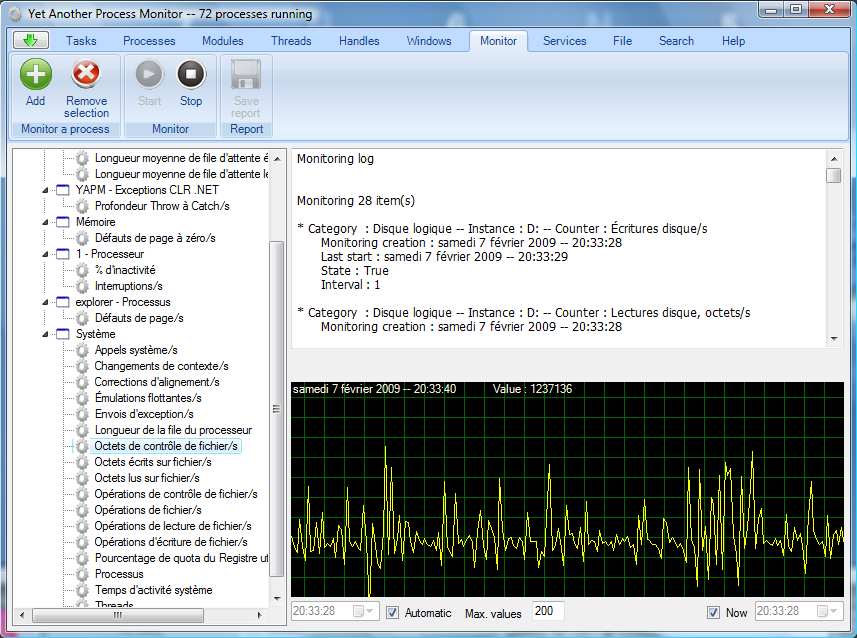
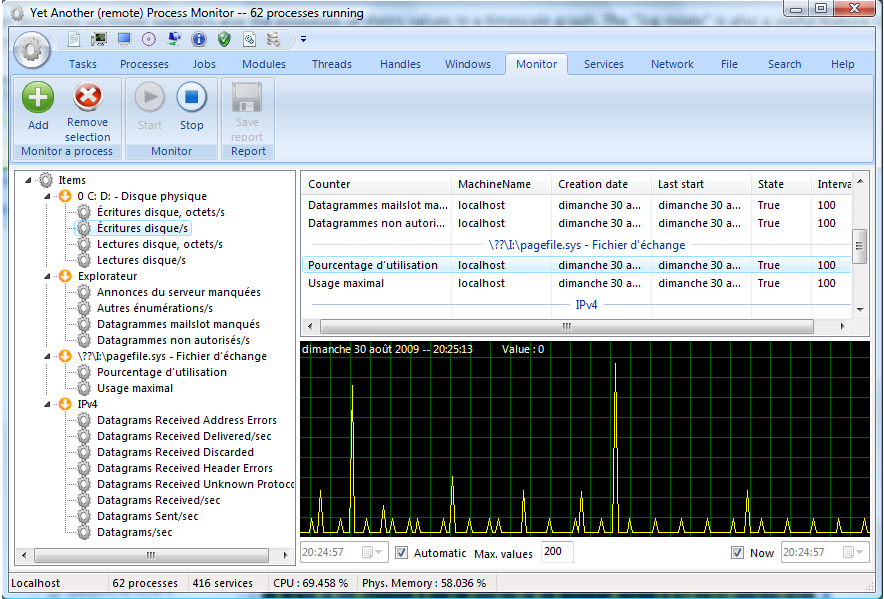
Updated Website for v2.1.0 Typo changes

diff --git a/Website/features.html b/Website/features.html
@@ -21,17 +21,18 @@ font-size:13pt; background-color:white;"> </span></font><span style="background-
     <DIV>
         <H2>&nbsp;</H2>
         <H2>List of main features</H2>
-        <p>The main purpose of YAPM is to display all informations availables about processes/services of a local/remote system&nbsp;and all related objects (threads, modules...), and to update all these informations&nbsp;in real time. The application has three&nbsp;principal forms :</p>
+        <p>The main purpose of YAPM is to display all informations availables about processes running on&nbsp;a local or remote system, and to update all these informations&nbsp;in real time. The application has four&nbsp;principal windows&nbsp;:</p>
         <ul>
-            <LI>the main form : displays the list of tasks/processes/services/TCP-UDP connections in real time. The other lists (modules, handles, threads...) can display objects of multiple processes, but are&nbsp;not automatically refreshed</LI>
-            <LI>the process detail form : displays in real time all informations about a specific process. Double-click on a process to open this form</LI>
-            <LI>the service&nbsp;detail form : displays in real time all informations about a specific service. Double-click on a service&nbsp;to open this form</LI>
+            <LI>the main window&nbsp;: displays the list of opened&nbsp;tasks/processes/jobs/services/TCP-UDP-connections in real time. The other tabs&nbsp;(modules, handles, threads...) can display objects owned&nbsp;by multiple processes, but are&nbsp;not automatically refreshed</LI>
+            <LI>the process detail window&nbsp;: displays in real time all informations about a specific process. Double-click on a process to open this window</LI>
+            <LI>the service&nbsp;detail window&nbsp;: displays in real time all informations about a specific service. Double-click on a service&nbsp;to open this window</LI>
+            <LI>the job&nbsp;detail window&nbsp;: displays in real time all informations about a specific job. Double-click on a job&nbsp;to open this window</LI>
         </ul>
         <p>For all lists, it is possible to choose the columns to display.</p>
         <p>Lots of informations and functions&nbsp;are available, here are the main :</p>
         <h3>Processes</h3>
-        <p>YAPM is able to kill (simple or kill process tree), stop, resume, set priority, set affinity of processes (multiple selection). You can also choose the informations&nbsp;you want to display (~45 available).</p>
-        <p align="center"><img src="Images/processes.png" width="881" height="693" border="0" alt="List of processes"></p>
+        <p>YAPM is able to kill (simple kill,&nbsp;kill process tree, kill by 5 different methods), stop, resume, set priority, set affinity of processes (multiple selection), add processes to job, create dump file, reduce WS size...etc.&nbsp;. You can also choose the informations&nbsp;you want to display (~50 available). The processes are highlighted depending of their type (system processes, processes in job...). Colors are of course configurable.</p>
+        <p align="center"><img src="Images/processes.png" width="881" height="697" border="0" alt="List of processes"></p>
         <h3>Statistics &amp; performance graphs</h3>
         <p>YAPM can display a lot of statistics about your processes. YAPM save a complete history of all statistics.</p>
         <p align="center"><img src="Images/statistics.png" width="671" height="720" border="0" alt="Some of the available statistics"></p>
@@ -39,42 +40,34 @@ font-size:13pt; background-color:white;"> </span></font><span style="background-
         <p>YAPM is able to manage process privileges (you can enable/disable/remove them).</p>
         <p align="center"><img src="Images/privileges.png" width="811" height="327" border="0" alt="Privileges"></p>
         <h3>Memory</h3>
-        <p>YAPM can display the memory regions in the virtual memory space of a process. You also can view it in&nbsp;a build-in hexadecimal editor.</p>
+        <p>YAPM can display/release/change protection/decommit&nbsp;the memory regions in the virtual memory space of a process. You also can view it in&nbsp;a build-in hexadecimal editor.</p>
         <p align="center"><img src="Images/memory.png" width="647" height="890" border="0" alt="Memory management"></p>
-        <h3>Modules</h3>
-        <p>YAPM can unload modules and show complete informations about them. You can of course save a detailed report.</p>
-        <p align="center"><img src="Images/modules.png" width="879" height="632" border="0" alt="Module list"></p>
-        <h3>Threads</h3>
-        <p>YAPM can kill, stop, resume and set affinity of threads.</p>
-        <p align="center"><img src="Images/threads.png" width="859" height="639" border="0" alt="Thread list"></p>
-        <h3>Handles</h3>
-        <p>YAPM is able to list all&nbsp;opened handles (even of system process if your have administrator rights) and show useful informations.</p>
-        <p align="center"><img src="Images/handles.png" width="881" height="631" border="0" alt="Handle list"></p>
-        <h3>Windows</h3>
-        <p>YAPM can close, set position, show, hide, flash, change caption/opacity, set as active/foreground window...etc. each of opened Windows. You are also able to find the owner process of a specific window by dragging your mouse over the screen.</p>
-        <p align="center"><img src="Images/windows.png" width="883" height="629" border="0" alt="Windows list"></p>
         <h3>Services</h3>
         <p>YAPM can shutdown, stop, resume, pause and change start type of all services.</p>
-        <p align="center"><img src="Images/services.png" width="880" height="631" border="0" alt="List of services"></p>
+        <p align="center"><img src="Images/services.png" width="881" height="600" border="0" alt="List of services"></p>
         <h3>Monitoring</h3>
         <p>YAPM allows to see&nbsp;all available Windows perfmon' counters and the&nbsp;evolution of theirs values in a timescale graph. The &quot;log mode&quot; is also a useful feature to know what is done by a process in real time.</p>
-        <p align="center"><img src="Images/monitoring.png" width="857" height="638" border="0" alt="Monitoring"></p>
+        <p align="center"><img src="Images/monitoring.png" width="884" height="599" border="0" alt="Monitoring"></p>
         <h3>Files</h3>
-        <p>YAPM can also manage your files. You can change dates/attributes, find string in file, encrypt, move/copy, delete and even shredd files.</p>
-        <p align="center"><img src="Images/files.png" width="858" height="637" border="0" alt="File management"></p>
+        <p>YAPM can also manage your files. You can change dates/attributes, find string in file, encrypt, move/copy, delete...etc.</p>
+        <p align="center"><img src="Images/files.png" width="880" height="600" border="0" alt="File management"></p>
         <h3>Search</h3>
-        <p>YAPM allows you to search for a specified string into opened processes, modules, handles and windows.</p>
-        <p align="center"><img src="Images/search.png" width="857" height="638" border="0" alt="Search"></p>
+        <p>YAPM allows you to search for a specified string into opened processes, modules, handles, windows...etc.</p>
+        <p align="center"><img src="Images/search.png" width="881" height="588" border="0" alt="Search"></p>
+        <h3 align="left">Job management</h3>
+        <p align="left">YAPM offers the possibility to add any process to new or existing jobs. YAPM also offers the possibility for the user to configure limits to the processes in jobs</p>
+        <p align="center"><img src="Images/jobs.png" width="716" height="708" border="0"></p>
+        <p align="center"><img src="Images/joblimits.png" width="497" height="462" border="0"></p>
         <h3 align="left">Dependency viewer</h3>
-        <p align="left">YAPM offers the possibility to view dependencies of an executable/dll/...</p>
+        <p align="left">YAPM offers the possibility to view dependencies of an executable/dll/driver...</p>
         <p align="center"><img src="Images/dependency.png" width="728" height="506" border="0" alt="Remote connection"></p>
         <h3>Remote management</h3>
-        <p>YAPM offers the possibility to manage remote processes of machines of your workgroup via WMI (nothing to install in on the remote machine) or via a client-server architecture (all actions and informations are available, just like if it is a local machine). You can also shutdown, reboot, logoff... remote machines.</p>
+        <p>YAPM offers the possibility to manage remote processes of machines in your workgroup via WMI (nothing to install on the remote machine) or via a client-server architecture (with the server, all actions and informations are available, just like if it is a local machine). You can also shutdown, reboot, logoff... remote machines.</p>
         <p align="center"><img src="Images/remote.png" border="0"></p>
         <p>&nbsp;</p>
         <DIV>
             <P id=footer><i>Copyright (c) 2008-2009 violent_ken</i></P>
-            <P><i>Last update of this page : 2009-06-05&nbsp;19:00</i></P>
+            <P><i>Last update of this page : 2009-30-08&nbsp;19:00</i></P>
         </DIV>
         <P></P>
         <p>

diff --git a/Website/index.html b/Website/index.html
@@ -5,7 +5,7 @@
 		<META http-equiv=Content-Type content="text/html; charset=windows-1252">
 		<META content="A free, open source and advanced process/service monitor." name=description>
 		<META content="yapm,yet,another,process,monitor,windows,thread,module,handle,search,kernel,window,monitor,monitoring,ribbon,violent_ken,advanced" name=keywords>
-		<META content="2.0.3.0" name=yapm_version>
+		<META content="2.1.0.0" name=yapm_version>
 		<LINK href="styles.css" type="text/css" rel=stylesheet>
 		<META content="Namo WebEditor" name=GENERATOR>
 		<meta name="verify-v1" content="BQkTlLICyzunD0ZvHlzh2t3FQjr+t13t0wuJZQTWWPg=">
@@ -26,7 +26,7 @@ font-size:13pt; background-color:white;"> </span></font><span style="background-
 			
     <H2>&nbsp;</H2>
     <H2>Introduction</H2>
-    <P>Yet Another (remote)&nbsp;Process Monitor (YAPM) is a powerful application that allows to view and manage your running tasks, processes, threads, modules, windows, handles, network connections&nbsp;and your services <b><font color="red">on a local or on&nbsp;a remote machine</font></b>. YAPM offers lots of features to manipulate them, such as privilege management, memory management, a complete history of statistics, a dependency viewer...&nbsp;etc.</P>
+    <P>Yet Another (remote)&nbsp;Process Monitor (YAPM) is a powerful application that allows to view and manage your running tasks, processes, threads, modules...etc.&nbsp;and your services <b><font color="red">on a local or on&nbsp;a remote machine</font></b>. YAPM offers lots of features to manipulate them, such as privilege management, memory management, a complete history of statistics, a dependency viewer...&nbsp;etc.</P>
     <P><font color="red"><b>It is </b></font><b><font color="red">the first and only&nbsp;open source </font></b><font color="red"><b>software&nbsp;to offer all these features.</b></font></P>
     <P><b><font color="red">It's totally free and open source (GNU GPL 3.0).</font></b></P>
 			<P>You are also able to monitor all Windows perfmon counters (local or remote machine)&nbsp;with an advanced time scale. YAPM also can&nbsp;save advanced reports of your system (HTML or TXT files).
@@ -37,15 +37,16 @@ font-size:13pt; background-color:white;"> </span></font><span style="background-
     <UL>
         <LI><b><font color="red">Local</font></b><font color="red"> and <b>remote</b> monitoring</font></LI>
         <LI><b>Module </b> and <b>thread</b> management</LI>
-        <LI><b>Handle </b> management (keys, files...)</LI>
-        <LI>View of <b>TCP/UDP connections</b> opened by the processes</LI>
+        <LI><b>Job</b> management : allows to add&nbsp;some processes to a job and set limits to the job. ; this&nbsp;affects all the processes in the job. For example, user can set an unique priority for all processes, a maximum memory usage for each process in the job...etc.</LI>
+        <LI><b>Handle </b> management (keys, files, semaphores...etc. opened by a process)</LI>
+        <LI>View of <b>TCP/UDP connections</b> opened</LI>
         <LI><b>Windows </b> management (opacity, position, show, hide...)</LI>
         <LI>Window' find' process feature : allows to find the process associated to a window via a <b>drag &amp; drop over the screen</b></LI>
         <LI><b>Emergency Hotkeys feature </b> : allows to associate a custom shortcut to a custom action (for example : Ctrl+Shift+Suppr to close&nbsp;the window which is on foreground)</LI>
         <LI><b>Privilege </b> management : allows to view and modify the privileges of processes</LI>
         <LI><b>Build-in hex editor </b> to view memory of processes</LI>
         <LI>&quot;<b>Log mode</b>&quot; to monitor all actions made by a specific process</LI>
-        <LI><b>Hidden Processes feature</b> to detect basic rootkits</LI>
+        <LI><b>Find Hidden Processes feature</b> to detect basic hidden rootkits</LI>
         <LI>Local and <b>remote shutdown</b></LI>
         <LI><b>Dependency viewer</b></LI>
         <LI>... And lots &amp; lots&nbsp;of other features !</LI>
@@ -53,16 +54,16 @@ font-size:13pt; background-color:white;"> </span></font><span style="background-
     <P>			</P>
 			<H2>Requirements</H2>			
 			<UL>
-				<LI><A href="http://www.microsoft.com/Downloads/details.aspx?familyid=79BC3B77-E02C-4AD3-AACF-A7633F706BA5&displaylang=en">.NET Framework 2.0 SP1.</a></LI>
-				<LI>Operating system : Microsoft Windows XP, Windows Vista or Windows Seven (<b>32 bits only, 64 bits support will come soon</b>).</LI>
+				<LI><A href="http://www.microsoft.com/downloads/details.aspx?FamilyId=333325FD-AE52-4E35-B531-508D977D32A6">.NET Framework 3.5</a></LI>
+				<LI>Operating system : Microsoft Windows XP, Windows Vista or Windows Seven. For now, YAPM works on 32 bits, and<b> 64 bits support is only experimental</b> (YAPM starts, but some features won't work properly).</LI>
         <LI>Administrator rights, if you want to access to system processes and some other informations.</LI>
-        <LI>For remote monitoring, WMI (Windows Management Instrumentation)&nbsp;must&nbsp;be installed and available&nbsp;on both machines if you use WMI method, or the YAPM Server application must be started&nbsp;on the remote machine if you use&nbsp;the client-server method.</LI>
+        <LI>For remote monitoring, WMI (Windows Management Instrumentation)&nbsp;must&nbsp;be installed and available&nbsp;on both machines if you use WMI method, or the YAPM Server must be started&nbsp;on the remote machine if you use&nbsp;the client-server method.</LI>
 			</UL>
     <h2>News</h2>
-    <p><b><font size="4" color="red">YAPM v2.1.0 (includes 64-bit support) will be available soon.</font></b></p>
+    <p><b><font size="4" color="red">YAPM v2.1.0 has just&nbsp;been released !</font></b></p>
 			
     <H2>Downloads</H2>
-    <P>The latest available version of Yet Another Process Monitor is the&nbsp;<STRONG>version&nbsp;2.0.3</STRONG> (build date : 2009-09-08).</P>
+    <P>The latest available version of Yet Another (remote)&nbsp;Process Monitor is the&nbsp;<STRONG>version&nbsp;2.1.0</STRONG> (build date : 2009-30-08).</P>
     <UL>
         <LI><A href="http://surfnet.dl.sourceforge.net/sourceforge/yaprocmon/YAPM-v2.0.3-binaries.zip">Binaries</a> 
 				<LI><A href="http://surfnet.dl.sourceforge.net/sourceforge/yaprocmon/YAPM-v2.0.3-source.zip">Source code</a></LI>
@@ -70,7 +71,7 @@ font-size:13pt; background-color:white;"> </span></font><span style="background-
     </UL>
     <p>&nbsp;</p>
     <P id=footer><i>Copyright (c) 2008-2009 violent_ken</i></P>
-    <P><i>Last update of this page : 2009-22-08&nbsp;12:00</i></P>
+    <P><i>Last update of this page : 2009-30-08&nbsp;12:00</i></P>
 </DIV>
 		<P></P>
 		

diff --git a/Website/faq.html b/Website/faq.html
@@ -23,9 +23,9 @@ font-size:13pt; background-color:white;"> </span></font><span style="background-
 </DIV>
 <p><b><font size="4" color="red">Nothing</font></b>. YAPM is a free and open source software, under GNU GPL 3.0 license. But if you want&nbsp;<b><font color="red">make a donation</font></b>, you're welcome ! Just click on 'Donate' button in 'Help' view and you will be redirected to the <a href="https://sourceforge.net/donate/index.php?user_id=1590933">donation page on sourceforge.net</a>.</p>
 <h2>Why should I use Yet Another Process Monitor ?</h2>
-<p>YAPM offers lots of useful features that Windows Task Manager does not have. For example, Windows Task Manager can't show loaded modules, threads, windows or&nbsp;handles. You can't search for a specific item, and you can't even select multiple items. If the standard Task Manager is a light and a useful tool, it is really limited.</p>
-<p>Process Explorer from <a href="http://technet.microsoft.com/en-us/sysinternals/default.aspx">sysinternals</a>&nbsp;offers some of these features, but remember Process Explorer is now <b>owned by Microsoft</b>, that's why&nbsp;you can't download its source code. So if you want to add some functions to Process Explorer, you can't.&nbsp;With YAPM, just ask in the forums and I'll try to implement it (or you can of course do it by yourself if you are able to do it).&nbsp;Moreover,YAPM offers <b>A LOT OF</b>&nbsp;features that Process Explorer does not have (windows, tasks,&nbsp;file, network&nbsp;management,
-advanced monitoring... etc).</p>
+<p>YAPM offers lots of useful features that Windows Task Manager does not have. For example, Windows Task Manager can't show loaded modules, threads, windows or&nbsp;handles. You can't search for a specific item, and you can't even select multiple items. If the standard Task Manager is a light and a useful tool, <b>it is really limited</b>.</p>
+<p>Process Explorer from <a href="http://technet.microsoft.com/en-us/sysinternals/default.aspx">sysinternals</a>&nbsp;offers some of these features, but remember Process Explorer is now <b>owned by Microsoft</b>, that's why&nbsp;you can't download its source code. So if you want to add some functions to Process Explorer, you can't.&nbsp;With YAPM, just ask in the forums and I'll try to implement it (or you can of course do it by yourself if you are able to do it).&nbsp;Moreover, YAPM offers <b>A LOT OF</b>&nbsp;features that Process Explorer does not have (windows, tasks,&nbsp;file, network&nbsp;management,
+advanced monitoring, jobs creation... etc).</p>
 <p><b><font size="4" color="red">And of course, neither Windows Task Manager&nbsp;nor Process Explorer is able to monitor remote systems&nbsp;:-)</font></b></p>
 <h2>I think I found a bug...</h2>
 <p>Yes it's possible, as YAPM is still&nbsp;in development. Please report the bugs you found and/or your suggestion <a href="http://sourceforge.net/tracker/?group_id=244697">to YAPM's tracker</a>.</p>
@@ -48,10 +48,8 @@ advanced monitoring... etc).</p>
     <LI><b>ObjectCreationDate</b> : the date when&nbsp;an object has been displayed for the first time in YAPM. It's usually the date when&nbsp;the object has been created (for example : when a handle has been opened, when a service has been created...etc.).</LI>
     <LI><b>PendingTaskCount</b> : as YAPM is fully multi-threaded, each action you select&nbsp;is launched in a separate thread. That's why some actions might&nbsp;be executed&nbsp;a few ms&nbsp;after you selected it, and probably&nbsp;more&nbsp;when you are connected to a remote system. So PendingTaskCount displays the number of actions for an object&nbsp;selected by the user which are not yet completed (&quot;pending&quot; actions). You can view these actions by pressing Ctrl+Shift key on an object in a listview.</LI>
 </ul>
-<h2>Is a 64 bits version scheduled ?</h2>
-<p>Yes, I'm on working on it, it will be released in a few days/weeks.</p>
-<h2>Is crashed at startup !</h2>
-<p>Okay, this might happen... Please report me the bug, inclunding the generated bug report (if any), the error message you've got...etc. Please use the <a href="http://sourceforge.net/tracker/?func=add&group_id=244697&atid=1126635">bug tracker</a>. This will help me a lot.</p>
+<h2>How about the&nbsp;64 bits version&nbsp;?</h2>
+<p>YAPM starts on 64 bits systems, but some features won't work (Dependency viewer, job limits for example). A full x64 version will be available in a few weeks.</p>
 <h2>Are you sure YAPM works on Windows Seven ?</h2>
 <p>Hum, I'm sure that it's working on Windows Seven RC1, but I still have to test YAPM&nbsp;under a final release...</p>
 <h2>How do I.... ?</h2>
@@ -64,7 +62,7 @@ advanced monitoring... etc).</p>
     </DIV>
     <DIV>
         <P id=footer><i>Copyright (c) 2008-2009 violent_ken</i></P>
-        <P><i>Last update of this page : 2009-22-08&nbsp;12:00</i></P>
+        <P><i>Last update of this page : 2009-30-08&nbsp;12:00</i></P>
     </DIV>
     <P></P>
     <p>

diff --git a/Website/changelog.html b/Website/changelog.html
@@ -21,6 +21,38 @@ font-size:13pt; background-color:white;"> </span></font><span style="background-
     <DIV>
         <H2>&nbsp;</H2>
         <H2>Changelog</H2>
+        <h3 style="margin-top:0; margin-bottom:0;">CHANGES FROM 2.0.3</h3>
+        <h3 style="margin-top:0; margin-bottom:0;">&nbsp;</h3>
+        <h3 style="margin-top:0; margin-bottom:0;">* NEW / Improvements</h3>
+        <p style="margin-top:0; margin-bottom:0;">- <font color="red">Now YAPM needs .Net 3.5 to work.</font></p>
+        <p style="margin-top:0; margin-bottom:0;">- Added &quot;<font color="red">basic and experimental</font>&quot; x64 support (full support in a few weeks)</p>
+        <p style="margin-top:0; margin-bottom:0;">- General stability improvements</p>
+        <p style="margin-top:0; margin-bottom:0;">- Added full job management (on local machine only for now)</p>
+        <p style="margin-top:0; margin-bottom:0;">- Added &quot;Terminate by method&quot; feature (with 5 different methods)</p>
+        <p style="margin-top:0; margin-bottom:0;">- Added tray notifications for new/deleted processes/services</p>
+        <p style="margin-top:0; margin-bottom:0;">- Optimization for handles enumeration</p>
+        <p style="margin-top:0; margin-bottom:0;">- Optimization for application startup</p>
+        <p style="margin-top:0; margin-bottom:0;">- Optimization when opening 'process/service detailed window'</p>
+        <p style="margin-top:0; margin-bottom:0;">- Optimization for threads enumeration via WMI</p>
+        <p style="margin-top:0; margin-bottom:0;">- Added &quot;Center window on screen&quot; feature</p>
+        <p style="margin-top:0; margin-bottom:0;">- Added &quot;relocated modules&quot; hilighting</p>
+        <p style="margin-top:0; margin-bottom:0;">- Added new informations about handles</p>
+        <p style="margin-top:0; margin-bottom:0;">- &quot;Copy to clipboard&quot; informations are now sorted in context-menu</p>
+        <p style="margin-top:0; margin-bottom:0;">- Improved UI appearance</p>
+        <p style="margin-top:0; margin-bottom:0;">&nbsp;</p>
+        <h3 style="margin-top:0; margin-bottom:0;">* Bug fixed</h3>
+        <p style="margin-top:0; margin-bottom:0;">- YAPM does not hung anymore when some processes are also hung</p>
+        <p style="margin-top:0; margin-bottom:0;">- Now affinity changes for threads work</p>
+        <p style="margin-top:0; margin-bottom:0;">- Fixed 'key already added' bug</p>
+        <p style="margin-top:0; margin-bottom:0;">- Fixed some bugs with WMI connection</p>
+        <p style="margin-top:0; margin-bottom:0;">- Fixed #2837129 (search in Window tab crash)</p>
+        <p style="margin-top:0; margin-bottom:0;">- Fixed lots of other bugs...</p>
+        <p style="margin-top:0; margin-bottom:0;">- Now 'system processes' highlighting works for all cultures</p>
+        <p style="margin-top:0; margin-bottom:0;">- No more crash when resizing main window</p>
+        <p style="margin-top:0; margin-bottom:0;">- 'Shutdown' functions (using context menu of tray icon) now force shutdown by default</p>
+        <p style="margin-top:0; margin-bottom:0;">&nbsp;</p>
+        <p style="margin-top:0; margin-bottom:0;">&nbsp;</p>
+        <p style="margin-top:0; margin-bottom:0;">&nbsp;</p>
         <h3 style="margin-top:0; margin-bottom:0;">CHANGES FROM 2.0.2</h3>
         <h3 style="margin-top:0; margin-bottom:0;">&nbsp;</h3>
         <h3 style="margin-top:0; margin-bottom:0;">* General changes &amp; internal</h3>
@@ -296,7 +328,7 @@ font-size:13pt; background-color:white;"> </span></font><span style="background-
         <p>&nbsp;</p>
         <DIV>
             <P id=footer><i>Copyright (c) 2008-2009 violent_ken</i></P>
-            <P><i>Last update of this page : 2009-09-08&nbsp;20:00</i></P>
+            <P><i>Last update of this page : 2009-30-08&nbsp;20:00</i></P>
         </DIV>
         <P></P>
         <p>

diff --git a/Website/developer.html b/Website/developer.html
@@ -25,14 +25,13 @@ font-size:13pt; background-color:white;"> </span></font><span style="background-
         <h2>Next release informations</h2>
         <p>The next version&nbsp;will focus on :&nbsp;</p>
         <ul>
-            <LI>bug fixes</LI>
-            <LI>implementation of some new features</LI>
-            <LI>code refactoring to prepare to support of 64 bits&nbsp;version</LI>
-            <LI>maybe a treelistview for processes</LI>
+            <LI>full x64 compatibility</LI>
+            <LI>full Windows Seven compatibility</LI>
+            <LI>maybe a treelistview for processes ?</LI>
         </ul>
         <h2>Progress &amp; bugs to fix</h2>
         <p>There is no more critical known bug.</p>
-        <p>But there are about 80 other changes to do (bug fixes, new options/features...).</p>
+        <p>But there are a lot of minor&nbsp;changes to do (bug fixes, some new options/features...).</p>
         <h2>Future developments</h2>
         <p>Future developments will focus on&nbsp;: &nbsp;</p>
         <ul>
@@ -41,8 +40,7 @@ font-size:13pt; background-color:white;"> </span></font><span style="background-
             <LI>Make YAPM more powerful for system process management (development of the kernel&nbsp;driver)</LI>
             <LI>Make YAPM use less bandwidth&nbsp;for remote monitoring</LI>
             <LI>Translation of YAPM in different langages (french in priority ^^)</LI>
-            <LI>Need a TreeListView to display processes :)&nbsp;I've tried some open source TreeListviews, and the best one seems to be <a href="https://sourceforge.net/projects/treeviewadv/">TreeViewAdv</a>.  </LI>
-            <LI>64 bits support, as requested many times</LI>
+            <LI>Need a TreeListView to display processes :)&nbsp;I've tried some open source TreeListviews, and the best one seems to be <a href="https://sourceforge.net/projects/treeviewadv/">TreeViewAdv</a>.    </LI>
         </ul>
         <h2><a name="Contact"></a>Contact</h2>
         <p>There are different ways to contact me about YAPM or about anything you want :</p>
@@ -55,7 +53,7 @@ font-size:13pt; background-color:white;"> </span></font><span style="background-
         <p>&nbsp;</p>
         <DIV>
             <P id=footer><i>Copyright (c) 2008-2009 violent_ken</i></P>
-            <P><i>Last update of this page : 2009-08-09&nbsp;20:00</i></P>
+            <P><i>Last update of this page : 2009-30-08&nbsp;20:00</i></P>
         </DIV>
         <P></P>
         <p>

diff --git a/Website/help.html b/Website/help.html
@@ -23,7 +23,7 @@ font-size:13pt; background-color:white;"> </span></font><span style="background-
 			
     <H2>&nbsp;</H2>
     <H2>Introduction</H2>
-    <p><b><font color="red">Note : depending on the version you are using, this&nbsp;help file may contains differences between your version and the version it describes. The present help file is provided for the last version of YAPM. For now, it is provided&nbsp;for YAPM 2.0.2</font></b></p>
+    <p><b><font color="red">Note : depending on the version you are using, this&nbsp;help file may contains differences between your version and the version it describes. The present help file is provided for YAPM 2.0.2. </font></b></p>
     <h2><a name="Menu"></a>Menu features</h2>
     <p>Here are the features available in the main&nbsp;menu (click on the Orb) and when you click on&nbsp;the small icons of the ribbon, near the Orb :</p>
     <UL>
@@ -294,7 +294,7 @@ font-size:13pt; background-color:white;"> </span></font><span style="background-
     </ul>
     <p>&nbsp;</p>
     <P id=footer><i>Copyright (c) 2008-2009 violent_ken</i></P>
-    <P><i>Last update of this page : 2009-09-08&nbsp;20:00</i></P>
+    <P><i>Last update of this page : 2009-30-08&nbsp;12:00</i></P>
 </DIV>
 		<P></P>
 		
